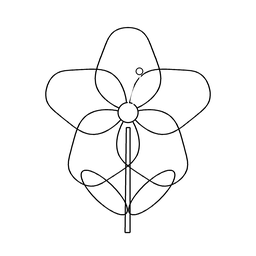
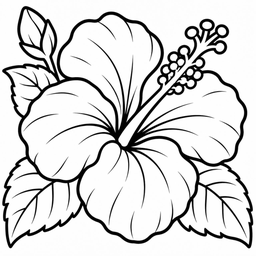
Replace hibiscus sample with supplied artwork and verify fills

diff --git a/picturepaint/catalog.js b/picturepaint/catalog.js
@@ -1,2 +1,2 @@
 // Paths resolve relative to this app, including on GitHub Pages /small-apps/.
-export const drawings=[{id:'hibiscus-sample',title:'Hibiscus',category:'Botanical',thumbnail:'drawings/hibiscus-thumb.png',source:'drawings/hibiscus.png',description:'Original sample · replace with supplied artwork when available'}];
+export const drawings=[{id:'hibiscus',title:'Hibiscus',category:'Botanical',thumbnail:'drawings/hibiscus-thumb.png',source:'drawings/hibiscus.png',description:'Hibiscus line drawing · supplied artwork'}];

diff --git a/picturepaint/test-browser.py b/picturepaint/test-browser.py
@@ -26,8 +26,16 @@ with sync_playwright() as p:
  ctx=browser.new_context(viewport={'width':1280,'height':1000},accept_downloads=True);setup(ctx);page=ctx.new_page()
  page.goto('http://app-lab.test/small-apps/');page.get_by_role('link',name='Launch PicturePaint').click()
  expect(page.locator('#library-dialog')).to_be_visible();assert 'picturepaint/drawings/hibiscus.png' not in requests
- page.locator('.drawing-card').click();expect(page.locator('#dimensions')).to_have_text('2048 × 2048',timeout=30000)
- expect(page.locator('#save')).to_be_enabled();page.locator('#upload-file').set_input_files({'name':'shapes.png','mimeType':'image/png','buffer':fixture})
+ page.locator('.drawing-card').click();expect(page.locator('#dimensions')).to_have_text('1280 × 1280',timeout=30000)
+ expect(page.locator('#save')).to_be_enabled()
+ # Real supplied JPEG-derived artwork: separated petals and a leaf fill cleanly.
+ def hibiscus_pixel(x,y):return page.evaluate("([x,y])=>Array.from(document.querySelector('#surface').getContext('2d').getImageData(x,y,1,1).data)",[x,y])
+ for x,y in [(500,300),(1000,600),(600,1000),(150,1000)]:
+  pos=page.evaluate("([x,y])=>{const b=document.querySelector('#stage').getBoundingClientRect(),m=new DOMMatrix(getComputedStyle(document.querySelector('#surface')).transform);return {x:b.left+m.e+x*m.a,y:b.top+m.f+y*m.d}}",[x,y])
+  page.mouse.click(pos['x'],pos['y']);assert all(abs(a-b)<=5 for a,b in zip(hibiscus_pixel(x,y)[:3],[232,116,97])),(x,y,hibiscus_pixel(x,y))
+  assert min(hibiscus_pixel(5,5)[:3])>240
+  page.locator('#undo').click();assert min(hibiscus_pixel(x,y)[:3])>240
+ page.locator('#upload-file').set_input_files({'name':'shapes.png','mimeType':'image/png','buffer':fixture})
  expect(page.locator('#dimensions')).to_have_text('400 × 240');expect(page.locator('#save')).to_be_enabled()
  def point(x,y):
   # DOMMatrix is the actual CSS transform; this tests image coordinates through the UI.

diff --git a/picturepaint/README.md b/picturepaint/README.md
@@ -25,7 +25,7 @@ Tolerance and gap settings lock while any regions are painted. Undoing all fills
 
 ## Drawing library and hibiscus asset
 
-The included `drawings/hibiscus.png` is an original, CC0 botanical sample created for this implementation, with a separate 256-pixel thumbnail. **The user-supplied hibiscus drawing was not attached or present in the repository/workspace. This sample is not that supplied artwork.** Replace the two PNGs or add a new catalog entry when the supplied asset is available.
+The included `drawings/hibiscus.png` is the user-supplied `2477.jpg`, converted to RGB PNG at its native 1280 × 1280 resolution without resizing or altering the artwork. A separate 256-pixel thumbnail keeps library browsing lightweight. No additional license is asserted for the supplied artwork.
 
 To add drawings, put a full-resolution PNG and a small PNG thumbnail in `drawings/`, then add `{id, title, category, thumbnail, source, description}` to `catalog.js`. Category labels appear on library cards and can support future grouping/filtering without changing the engine. Prefer black outlines on a white or transparent background and closed shapes with margins from the image edge. Upload/import uses the same engine as library art.
 
@@ -39,8 +39,8 @@ python picturepaint/test-browser.py
 python tests/check_site.py
 ```
 
-All passed in Chromium on the implementation branch. The browser suite uses the repository's local route interception convention; production has no test dependencies. It checks deferred full-resolution loading, the 2048-square library image, non-square uploads, antialiased curved/irregular neighbors, solid fills, gradients at 0/45/90/180/270/360°, retained region settings, zoomed filling, wheel/Hand navigation, undo/redo, outline display, JPG dimensions/appearance/white background, project round trips including hidden outlines, malformed project recovery, open-edge protection, 320/375/768/1024/1440 layouts, mobile tap/pinch/pan without painting or page scroll, and Pages navigation. Screenshots: `/tmp/picturepaint-desktop.png`, `/tmp/picturepaint-mobile.png`.
+All passed in Chromium on the implementation branch. The browser suite uses the repository's local route interception convention; production has no test dependencies. It checks deferred full-resolution loading, the native 1280-square supplied hibiscus image and fills in its petals/leaves, non-square uploads, antialiased curved/irregular neighbors, solid fills, gradients at 0/45/90/180/270/360°, retained region settings, zoomed filling, wheel/Hand navigation, undo/redo, outline display, JPG dimensions/appearance/white background, project round trips including hidden outlines, malformed project recovery, open-edge protection, 320/375/768/1024/1440 layouts, mobile tap/pinch/pan without painting or page scroll, and Pages navigation. Screenshots: `/tmp/picturepaint-desktop.png`, `/tmp/picturepaint-mobile.png`.
 
 The pure engine suite checks neighboring and narrow regions, antialiased grayscale lines, open boundaries, and gap repair. The existing gallery/calculator suite passes at both domain root and `/small-apps/`, including original calculator blob hashes and no-JavaScript navigation. The PicturePaint browser suite also smoke-opens all nine existing apps. Existing Breakout, Falling Blocks, Synth Lab, LaserBreak, D::FUZE, DruMidi, and ChordMidi core/engine suites passed. Existing app directories and gallery CSS/JS are unchanged.
 
-Still required on physical devices: iPad Safari and Android Chrome touch precision and gesture cancellation, portrait/landscape usability, large-image memory/responsiveness, native project/JPG downloads and reopening from Files, and long painting sessions. Mobile emulation does not establish physical-device performance or Safari compatibility. The supplied hibiscus asset also needs integration and a fill check when available.
+Still required on physical devices: iPad Safari and Android Chrome touch precision and gesture cancellation, portrait/landscape usability, large-image memory/responsiveness, native project/JPG downloads and reopening from Files, and long painting sessions. Mobile emulation does not establish physical-device performance or Safari compatibility.
